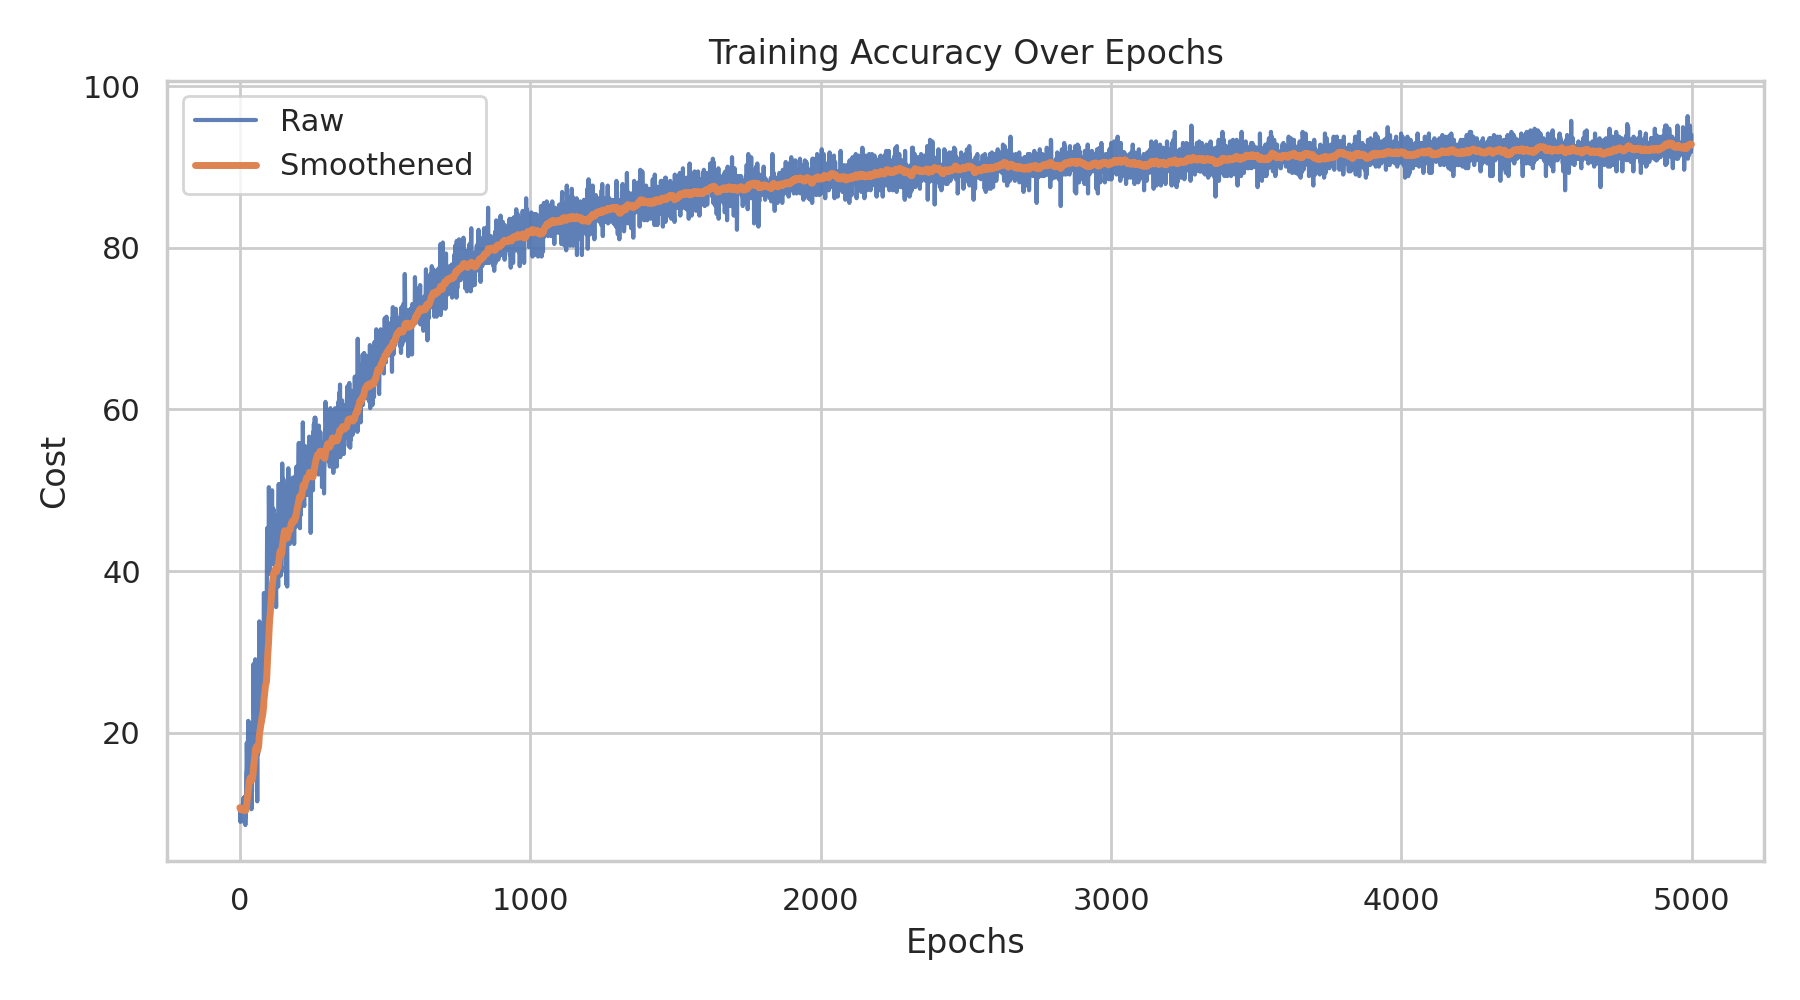
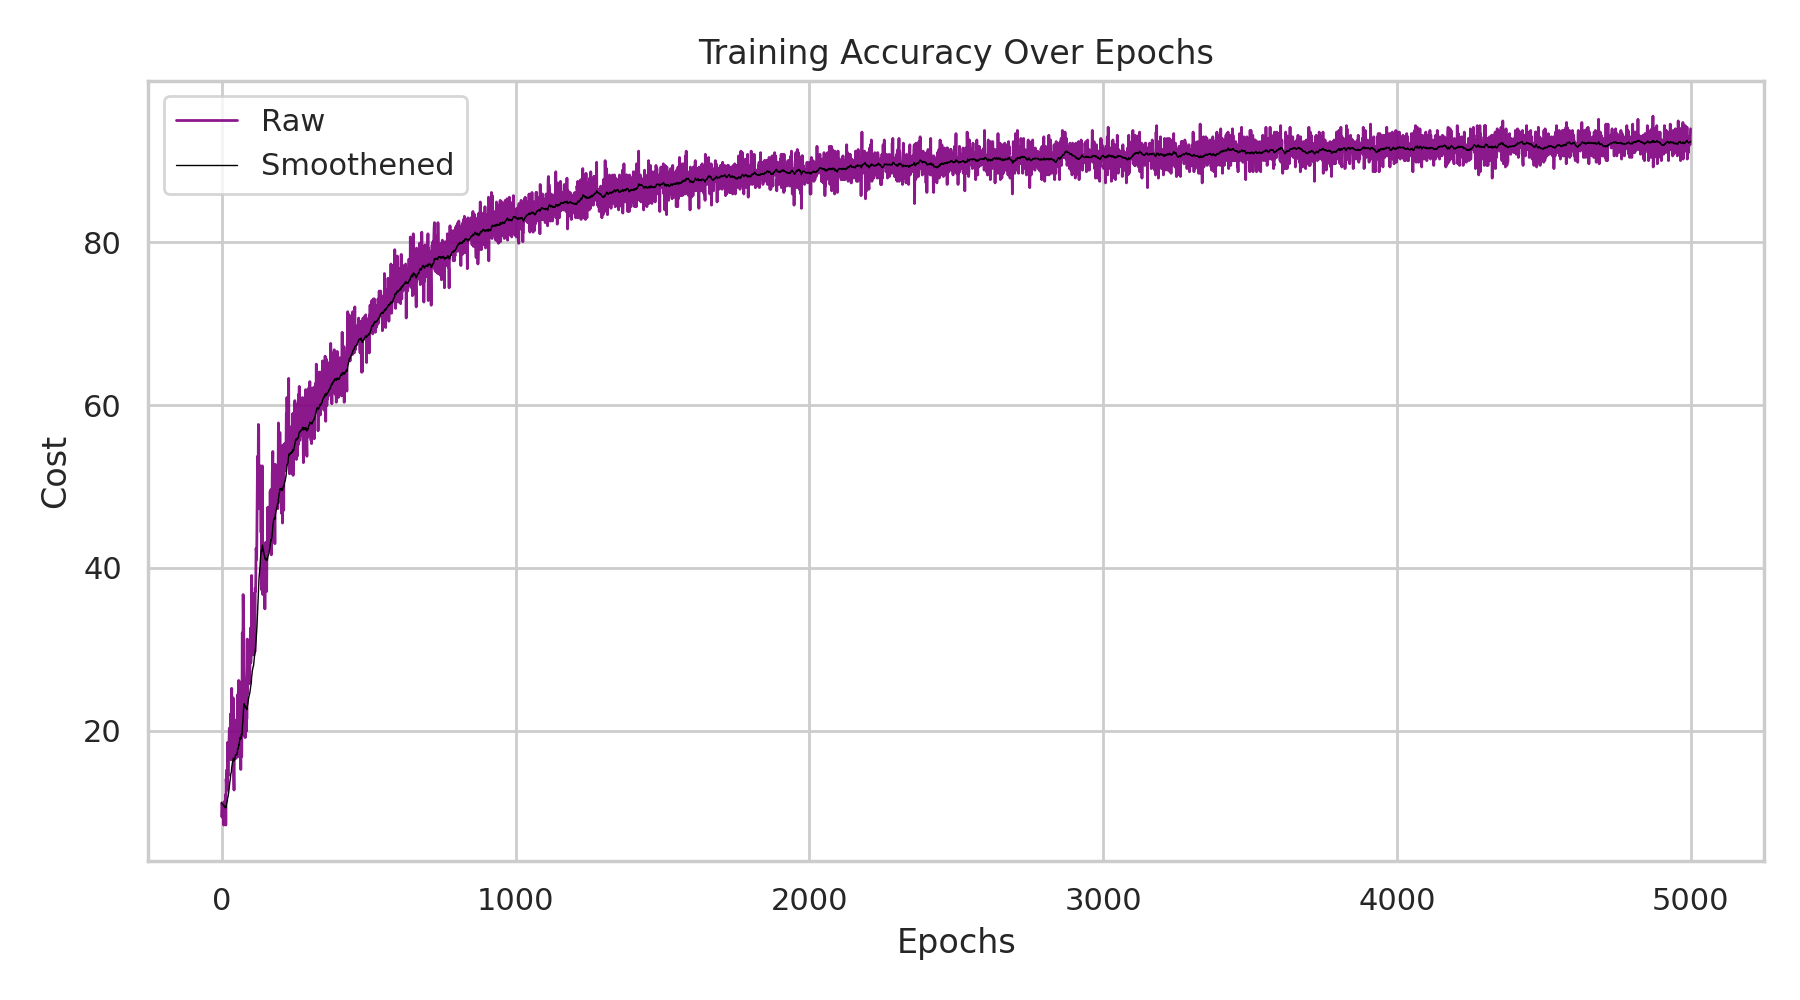
Changed visualisations looks

diff --git a/src/visualisations.py b/src/visualisations.py
@@ -47,8 +47,8 @@ def save_cost(cost_history: list) -> None:
     sns.set_theme(style="whitegrid", context="notebook")
     plt.figure(figsize=(9, 5))
 
-    sns.lineplot(data=cost_history, label="Raw", linewidth=1.5, alpha=0.9)
-    sns.lineplot(data=smooth, label="Smoothened", linewidth=2.5)
+    sns.lineplot(data=cost_history, label="Raw", linewidth=1, alpha=0.9, color="purple")
+    sns.lineplot(data=smooth, label="Smoothened", linewidth=1.5, color="black")
 
     plt.title("Training Cost Over Epochs")
     plt.xlabel("Epochs")
@@ -73,8 +73,8 @@ def save_accuracy(acc_history: list) -> None:
     sns.set_theme(style="whitegrid", context="notebook")
     plt.figure(figsize=(9, 5))
 
-    sns.lineplot(data=acc_history, label="Raw", linewidth=1.5, alpha=0.9)
-    sns.lineplot(data=smooth, label="Smoothened", linewidth=2.5)
+    sns.lineplot(data=acc_history, label="Raw", linewidth=1, alpha=0.9, color="purple")
+    sns.lineplot(data=smooth, label="Smoothened", linewidth=1.5, color="black")
 
     plt.title("Training Accuracy Over Epochs")
     plt.xlabel("Epochs")
